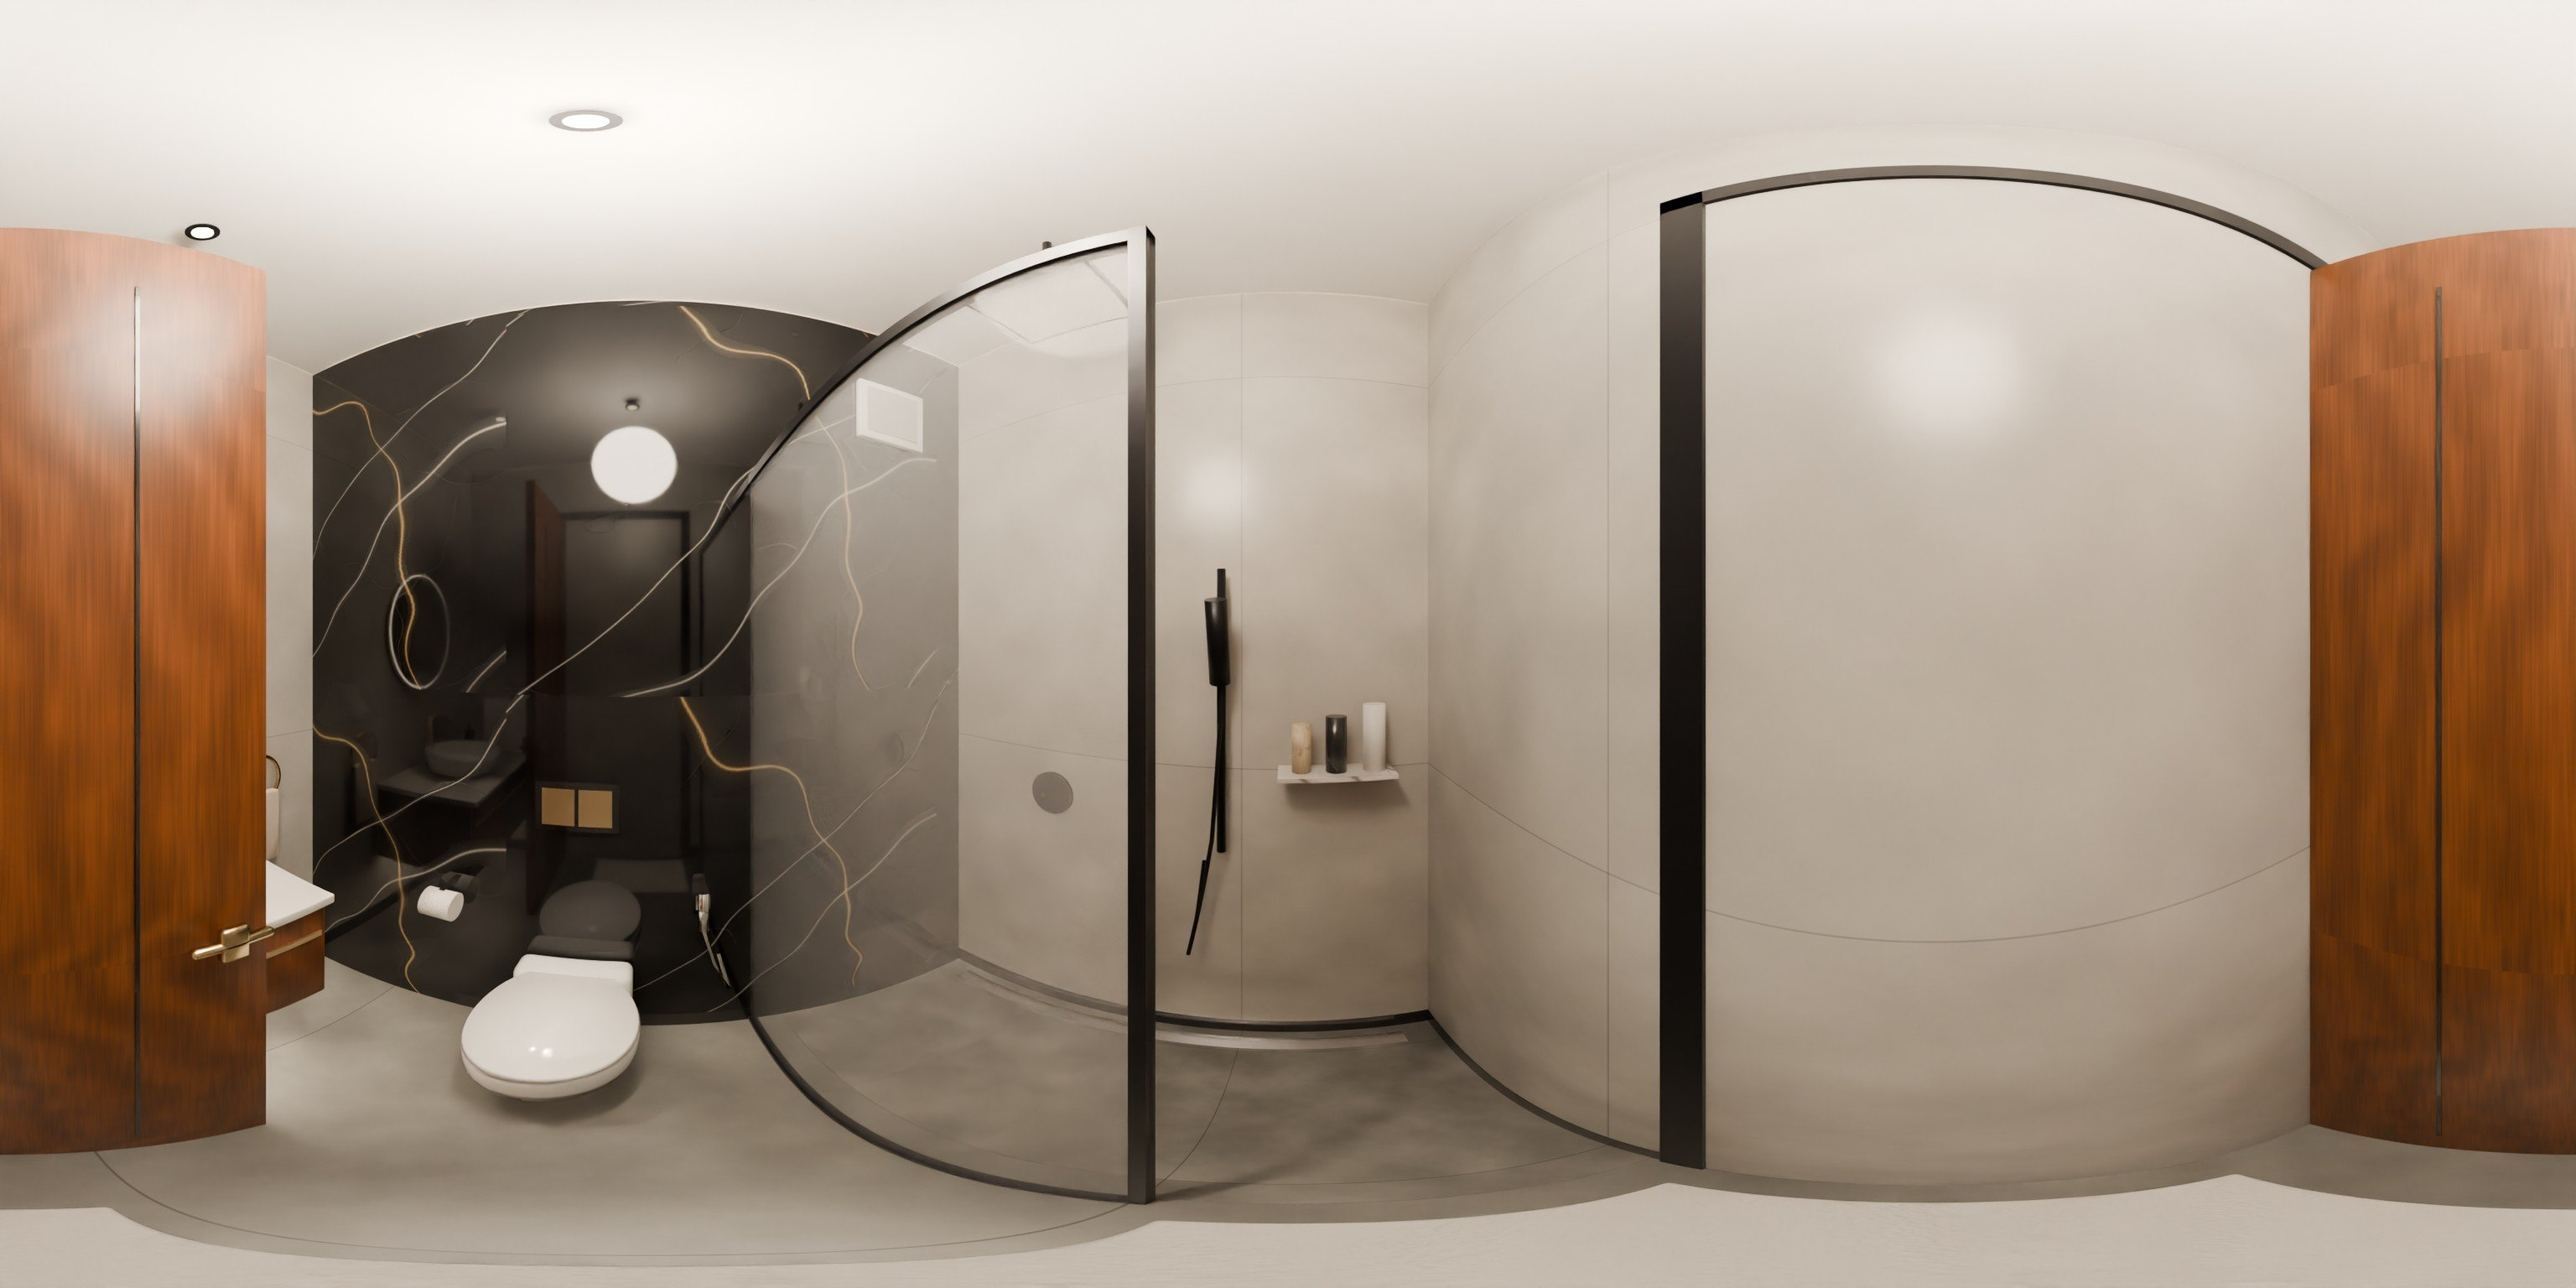
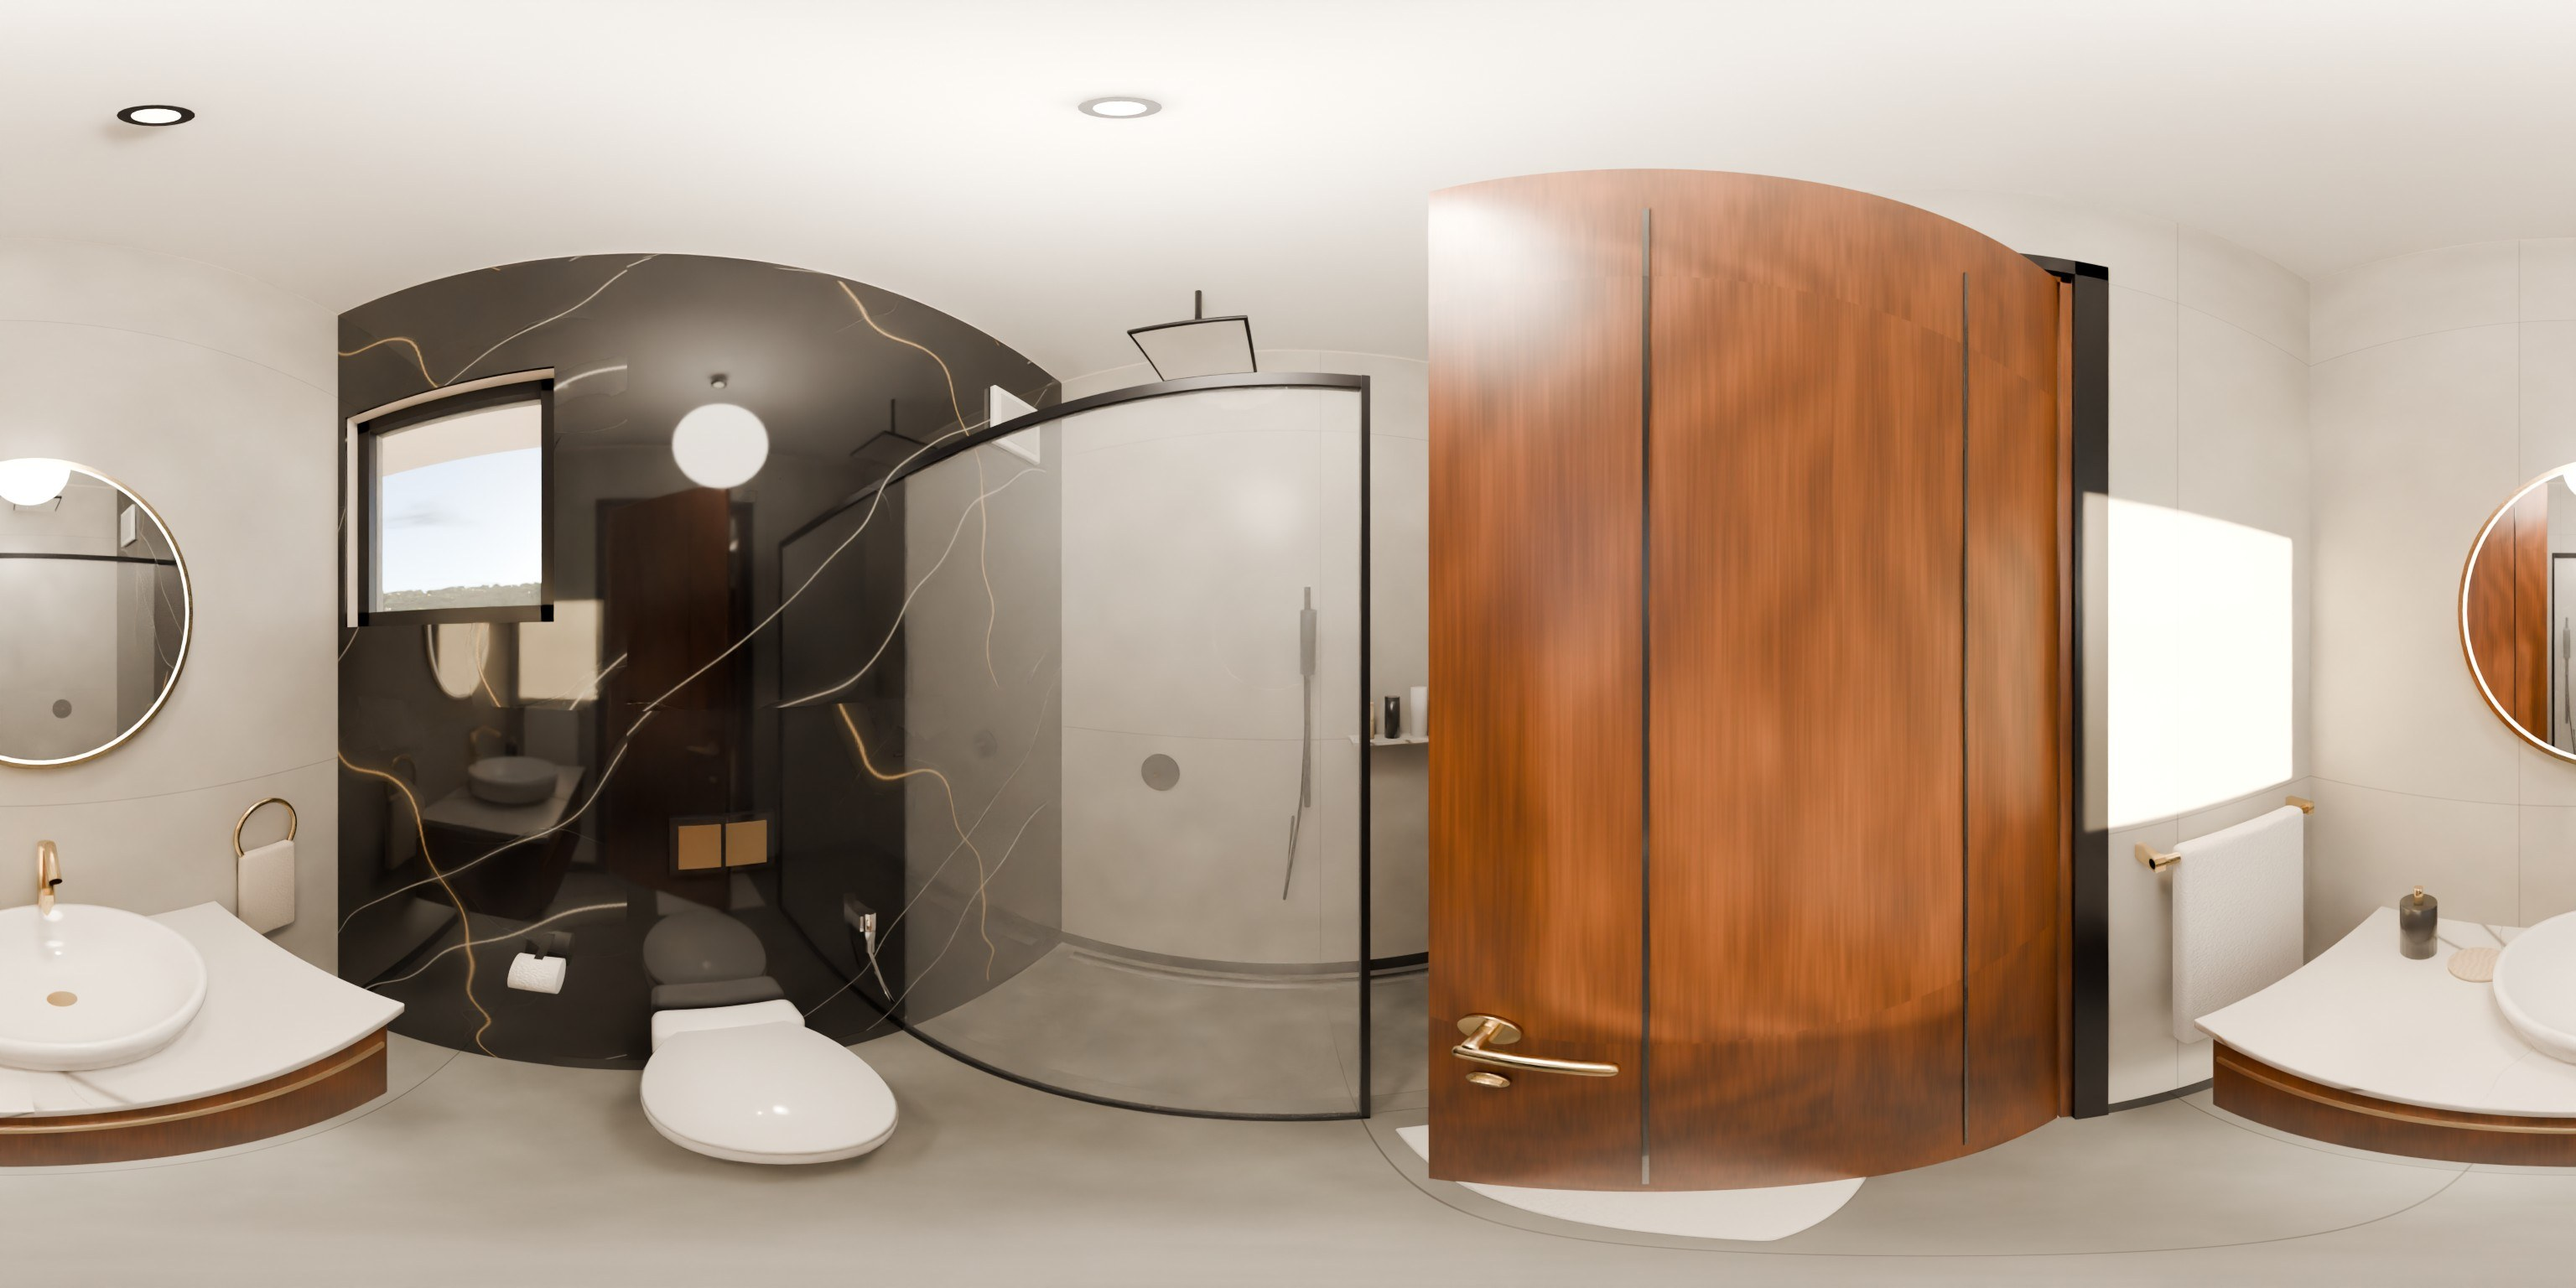
Proper bathroom doors; Bathrooms 2 and 3 in the 360 tour
- Bathroom wall tiling no longer runs across the doorways and windows
- Bathroom doors stand ajar with brass levers on both faces and a
  privacy turn, so the door reads from the bedroom side
- New 360 stops for Bathroom 2 (from Bedroom 2) and Bathroom 3 (from
  the dining area); master bath viewpoint moved clear of the door
- index.html#<room> now opens straight into that room

Claude-Session: https://claude.ai/code/session_01AxkwcX849drJFCPWu8TBcP

diff --git a/index.html b/index.html
@@ -195,8 +195,12 @@ const NODES = {
              text: "A charcoal channel-tufted headboard wall with an ivory gallery panel above, a bouclé bench and linen drapes that soften the light from the balcony." },
   master:  { px: 300, py: 470, name: "Master Bedroom", size: "13.45 x 11.48 ft", yaw: 170,
              text: "Herringbone oak underfoot and a full-height velvet channel headboard. Bronze-glass wardrobes glow from within, and a cognac velvet reading chair sits by the private balcony." },
-  mbath:   { px: 282, py: 258, name: "Master Bath", size: "7.87 x 4.92 ft", yaw: 105,
+  mbath:   { px: 255, py: 240, name: "Master Bath", size: "7.87 x 4.92 ft", yaw: 105,
              text: "A Nero Marquina feature wall, a wall-hung WC, a floating walnut vanity with a vessel basin, and a walk-in rain shower behind clear glass." },
+  bath2:   { px: 1010, py: 300, name: "Bathroom 2", size: "4.92 x 8.86 ft", yaw: 150,
+             text: "Attached to Bedroom 2: a walk-in rain shower behind clear glass, a wall-hung WC and a floating walnut vanity with a vessel basin." },
+  bath3:   { px: 395, py: 640, name: "Bathroom 3", size: "4.92 x 7.87 ft", yaw: 215,
+             text: "The common bathroom off the hall: a vessel basin on a walnut vanity, a wall-hung WC and a rain shower behind glass." },
   balcony: { px: 690, py: 110, name: "Balcony", size: "Full-length façade balcony", yaw: 0,
              text: "One balcony runs the full length of the façade, connecting the master suite, Bedroom 3, the living room and Bedroom 2. A sit-out with morning coffee looks across the compound to the Turahalli forest." }
 };
@@ -206,15 +210,17 @@ const LINKS = {
   entrance: [["foyer", 1150, 516, 0.48]],
   foyer:   [["entrance", 1150, 516], ["living", 900, 470], ["dining", 760, 560], ["kitchen", 1000, 600], ["br2", 1052, 420]],
   living:  [["foyer", 1000, 510], ["dining", 740, 560], ["balcony", 782, 172], ["br3", 602, 472]],
-  dining:  [["living", 790, 430], ["kitchen", 935, 655], ["foyer", 1020, 515], ["master", 372, 525], ["br3", 602, 472]],
+  dining:  [["living", 790, 430], ["kitchen", 935, 655], ["foyer", 1020, 515], ["master", 372, 525], ["br3", 602, 472], ["bath3", 408, 560]],
   kitchen: [["dining", 900, 650], ["foyer", 1050, 540]],
-  br2:     [["foyer", 1052, 420], ["balcony", 1185, 168]],
+  br2:     [["foyer", 1052, 420], ["balcony", 1185, 168], ["bath2", 1052, 347]],
   br3:     [["dining", 602, 470], ["balcony", 511, 168]],
   master:  [["dining", 372, 525], ["mbath", 269, 292], ["balcony", 125, 290]],
   mbath:   [["master", 269, 300]],
+  bath2:   [["br2", 1052, 347]],
+  bath3:   [["dining", 408, 560]],
   balcony: [["living", 782, 168], ["br3", 511, 168], ["br2", 1185, 168], ["master", 125, 168]]
 };
-const ORDER = ["entrance", "foyer", "living", "balcony", "dining", "kitchen", "br3", "br2", "master", "mbath"];
+const ORDER = ["entrance", "foyer", "living", "balcony", "dining", "kitchen", "bath3", "br3", "br2", "bath2", "master", "mbath"];
 const EYE = 1.55;
 
 // ---------------------------------------------------------------- renderer + panorama spheres
@@ -240,7 +246,7 @@ function tex(url) {
   }, undefined, rej));
   return cache[url];
 }
-const V = "?v=5";
+const V = "?v=6";
 const small = id => `pano/${id}_s.jpg${V}`, big = id => `pano/${id}.jpg${V}`;
 
 function resize() { const w = innerWidth, h = innerHeight; renderer.setSize(w, h, false); camera.aspect = w / h; camera.fov = w < h ? 85 : 72; camera.updateProjectionMatrix(); fovBase = camera.fov; }
@@ -368,7 +374,8 @@ const slides = [...document.querySelectorAll(".slide")]; let si = 0;
 const slideTimer = setInterval(() => { slides[si].classList.remove("on"); si = (si + 1) % slides.length; slides[si].classList.add("on"); }, 5200);
 tex(small("entrance")).catch(() => {});
 document.getElementById("go").addEventListener("click", async () => {
-  await go("entrance");
+  const startAt = NODES[location.hash.slice(1)] ? location.hash.slice(1) : "entrance";   // index.html#br2 opens Bedroom 2
+  await go(startAt);
   document.getElementById("intro").classList.add("gone"); clearInterval(slideTimer);
   for (const id of ["top", "caption", "rooms", "hint"]) document.getElementById(id).hidden = false;
   if (innerWidth >= 1100) plan.hidden = false;

diff --git a/source/build_v2.py b/source/build_v2.py
@@ -143,7 +143,7 @@ def fill(name, o, horiz, px0, py0, px1, py1):
             fb(f"{name}_al{sg}", lo - aw, lo, 0, top + aw, trim, d0, d1)
             fb(f"{name}_ar{sg}", hi, hi + aw, 0, top + aw, trim, d0, d1)
             fb(f"{name}_ah{sg}", lo - aw, hi + aw, top, top + aw, trim, d0, d1)
-        # leaf open at 90 degrees, clear of the wall face
+        # leaf: open at 90 degrees clear of the wall face, or ajar (open=<deg>) so its face and handle read
         width = hi - lo - 0.05
         hinge_lo = (o.get("hinge", "a") == "a") == (A <= B)
         hinge = lo + 0.025 if hinge_lo else hi - 0.025
@@ -153,24 +153,40 @@ def fill(name, o, horiz, px0, py0, px1, py1):
             out = Vector((0, -side, 0)); hp = Vector((hinge, c, 0)); al = Vector((along, 0, 0))
         else:
             out = Vector((side, 0, 0)); hp = Vector((c, hinge, 0)); al = Vector((0, along, 0))
-        face = hp + out * (th / 2 + 0.012)
         lt = 0.045
-        cen = face + out * (width / 2) + al * (lt / 2 + 0.005)
-        ang = math.degrees(math.atan2(out.y, out.x)) - 90
+        th_open = math.radians(o.get("open", 90))
+        dirv = al * math.cos(th_open) + out * math.sin(th_open)          # from the hinge across the leaf
+        nrm = out * math.cos(th_open) - al * math.sin(th_open)           # leaf normal, swing side
+        if o.get("open", 90) >= 89:
+            pivot = hp + out * (th / 2 + 0.012) + al * (lt + 0.005)
+        else:
+            pivot = hp + out * (th / 2)
+        cen = pivot + dirv * (width / 2) - nrm * (lt / 2)
+        ang = math.degrees(math.atan2(dirv.y, dirv.x)) - 90
         boxc(f"{name}_leaf", cen.x, cen.y, 0.008, lt, width, top - 0.02, leafm, "Openings", rot=ang)
         # vertical grooves (proud, so they never coincide with the leaf faces)
         for g in (-0.18, 0.18):
-            p = cen + out * g
+            p = cen + dirv * g
             for sgn in (-1, 1):
-                q = p + al * sgn * (lt / 2 + 0.0015)
+                q = p + nrm * sgn * (lt / 2 + 0.0015)
                 boxc(f"{name}_gr{g}{sgn}", q.x, q.y, 0.15, 0.003, 0.006, top - 0.35, "lacquer_black", "Openings", rot=ang)
-        # brass lever handles on both faces
-        hpnt = face + out * (width - 0.08)
+        # brass lever sets on both faces: round rose, neck and a lever that points back toward the hinge
+        hc = cen + dirv * (width / 2 - 0.07)
         for sgn in (-1, 1):
-            q = hpnt + al * (lt / 2 + 0.005 + 0.03) * sgn + al * (lt / 2 + 0.005) * 0
-            q = (face + out * (width - 0.08)) + al * ((lt / 2 + 0.005) + sgn * (lt / 2 + 0.03))
-            boxc(f"{name}_hd{sgn}", q.x, q.y, 1.02, 0.02, 0.14, 0.02, "brass", "Openings", rot=ang, bevel=0.008)
-            boxc(f"{name}_ro{sgn}", q.x, q.y, 0.99, 0.02, 0.05, 0.08, "brass", "Openings", rot=ang, bevel=0.008)
+            f0 = hc + nrm * sgn * (lt / 2)
+            r_ = f0
+            cyl(f"{name}_rose{sgn}", r_.x, r_.y, 1.02, 0.032, 0.01, "brass", "Openings", 32,
+                rot=(90, 0, math.degrees(math.atan2(nrm.y, nrm.x)) + 90 + (180 if sgn < 0 else 0)))
+            nk = f0 + nrm * sgn * 0.03
+            boxc(f"{name}_neck{sgn}", nk.x, nk.y, 1.005, 0.05, 0.018, 0.03, "brass", "Openings", rot=ang, bevel=0.006)
+            lv = f0 + nrm * sgn * 0.052 - dirv * 0.055
+            boxc(f"{name}_lever{sgn}", lv.x, lv.y, 1.006, 0.02, 0.14, 0.024, "brass", "Openings", rot=ang, bevel=0.009)
+            if o.get("privacy"):        # bathroom: privacy turn inside, release slot outside
+                pr = f0 + nrm * sgn * 0.004
+                cyl(f"{name}_prv{sgn}", pr.x, pr.y, 0.86, 0.022, 0.008, "brass", "Openings", 24,
+                    rot=(90, 0, math.degrees(math.atan2(nrm.y, nrm.x)) + 90 + (180 if sgn < 0 else 0)))
+                tk = f0 + nrm * sgn * 0.014
+                boxc(f"{name}_turn{sgn}", tk.x, tk.y, 0.858, 0.012, 0.006 if sgn < 0 else 0.03, 0.03 if sgn < 0 else 0.006, "brass", "Openings", rot=ang, bevel=0.002)
 
 def D(a, b, hinge="a", swing=1, **kw):
     d = dict(a=a, b=b, bot=0, top=DOOR_H, kind="door", hinge=hinge, swing=swing); d.update(kw); return d
@@ -179,11 +195,11 @@ def SL(a, b): return dict(a=a, b=b, bot=0, top=SLIDE_H, kind="slider")
 
 wall("MasterWest", 45, 160, 55, 752, [W(290, 368, 0.6, 2.4)])
 wall("BalconyT1", 180, 160, 192, 292)
-wall("MasterNorth", 55, 288, 365, 297, [SL(70, 180), D(238, 300, hinge="a", swing=-1)])
+wall("MasterNorth", 55, 288, 365, 297, [SL(70, 180), D(238, 300, hinge="a", swing=-1, open=40, privacy=True)])
 wall("T1North", 180, 160, 438, 172, [W(195, 240, 1.6, 2.3)])
 wall("MasterEast", 365, 172, 378, 557, [D(492, 557, hinge="b", swing=-1)])
 wall("MasterSouth", 45, 597, 313, 605)
-wall("T3North", 313, 557, 450, 564, [D(378, 437, hinge="b", swing=1)])
+wall("T3North", 313, 557, 450, 564, [D(378, 437, hinge="b", swing=1, open=40, privacy=True)])
 wall("T3West", 313, 564, 325, 745, [W(687, 740, 1.6, 2.3)], skirting=False)
 wall("T3East", 437, 564, 450, 752)
 wall("BR3South", 378, 462, 635, 470, [D(572, 632, hinge="b", swing=-1)])
@@ -192,7 +208,7 @@ wall("BR3Living", 635, 172, 649, 470)
 wall("T2West", 922, 172, 935, 385)
 wall("T2South", 935, 378, 1047, 385)
 wall("T2North", 935, 160, 1047, 172, [W(960, 1010, 1.7, 2.3)])
-wall("BR2West", 1047, 160, 1057, 452, [D(318, 376, hinge="a", swing=-1), D(390, 450, hinge="b", swing=1)])
+wall("BR2West", 1047, 160, 1057, 452, [D(318, 376, hinge="a", swing=-1, open=40, privacy=True), D(390, 450, hinge="b", swing=1)])
 wall("BR2North", 1057, 160, 1325, 172, [SL(1117, 1253)])
 wall("BR2East", 1313, 172, 1325, 452)
 wall("BR2South", 1047, 452, 1560, 462)
@@ -618,18 +634,35 @@ for (px, py) in [(110, 350), (110, 520), (300, 350), (300, 520), (210, 560)]:
     spot(px, py)
 
 # ============================================================== BATHROOMS
-def bathroom(n, px0, py0, px1, py1, wc_side, van_side, accent="marble_nero"):
+def bathroom(n, px0, py0, px1, py1, wc_side, van_side, accent="marble_nero", holes=None):
+    """1 cm stone / marble finish on the four walls, cut around the door and window openings.
+    holes: {"N"|"S"|"E"|"W": [(px_a, px_b, bottom, top), ...]} in plan px along that wall."""
     x0, x1, y_n, y_s = X(px0), X(px1), Y(py0), Y(py1)
-    t = 0.01
-    box(n + "_wN", x0, y_n - t, 0, x1, y_n, H - 0.02, accent, "Decor")
-    box(n + "_wS", x0, y_s, 0, x1, y_s + t, H - 0.02, "stone_light", "Decor")
-    box(n + "_wW", x0, y_s, 0, x0 + t, y_n, H - 0.02, "stone_light", "Decor")
-    box(n + "_wE", x1 - t, y_s, 0, x1, y_n, H - 0.02, "stone_light", "Decor")
+    t = 0.01; holes = holes or {}
+    def run(side, m):
+        horiz = side in ("N", "S")
+        a0, a1 = (px0, px1) if horiz else (py0, py1)
+        def piece(k, a, b, z0, z1):
+            if b - a < 0.5 or z1 - z0 < 0.005: return
+            if horiz:
+                yy = (y_n - t, y_n) if side == "N" else (y_s, y_s + t)
+                box(f"{n}_w{side}{k}", X(a), yy[0], z0, X(b), yy[1], z1, m, "Decor")
+            else:
+                xx = (x0, x0 + t) if side == "W" else (x1 - t, x1)
+                box(f"{n}_w{side}{k}", xx[0], Y(b), z0, xx[1], Y(a), z1, m, "Decor")
+        cur, k = a0, 0
+        for (a, b, bot, top) in sorted(holes.get(side, [])):
+            piece(k, cur, a, 0, H - 0.02); k += 1
+            piece(k, a, b, 0, bot); k += 1
+            piece(k, a, b, top, H - 0.02); k += 1
+            cur = b
+        piece(k, cur, a1, 0, H - 0.02)
+    run("N", accent); run("S", "stone_light"); run("W", "stone_light"); run("E", "stone_light")
     ld = bpy.data.lights.new(n + "_fill", "POINT"); ld.energy = 45; ld.color = (1.0, 0.86, 0.7); ld.shadow_soft_size = 0.2
     lo_ = bpy.data.objects.new(n + "_fill", ld); lo_.location = ((x0 + x1) / 2, (y_n + y_s) / 2, H - 0.4); coll("Lights").objects.link(lo_)
-bathroom("T1", 192, 172, 365, 288, "N", "W")
-bathroom("T2", 935, 172, 1047, 378, "W", "S")
-bathroom("T3", 325, 564, 437, 745, "E", "S")
+bathroom("T1", 192, 172, 365, 288, "N", "W", holes={"N": [(195, 240, 1.6, 2.3)], "S": [(238, 300, 0, DOOR_H)]})
+bathroom("T2", 935, 172, 1047, 378, "W", "S", holes={"N": [(960, 1010, 1.7, 2.3)], "E": [(318, 376, 0, DOOR_H)]})
+bathroom("T3", 325, 564, 437, 745, "E", "S", holes={"N": [(378, 437, 0, DOOR_H)], "W": [(687, 740, 1.6, 2.3)]})
 for (px, py) in [(278, 230), (990, 300), (380, 690), (990, 210), (230, 230), (380, 610)]:
     spot(px, py, H - 0.04, 30)
 

diff --git a/source/render_v2.py b/source/render_v2.py
@@ -19,6 +19,9 @@ VIEWS = {
     "hero_master": ((330, 545), 1.45, (60, 410), 1.1),
     "hero_kitchen": ((1000, 738), 1.55, (1110, 590), 1.2),
     "hero_balcony": ((660, 152), 1.45, (800, 70), 0.85),
+    "v_d1": ((300, 470), 1.55, (265, 290), 1.1),
+    "v_d2": ((1150, 345), 1.55, (1040, 345), 1.1),
+    "v_d3": ((405, 490), 1.55, (408, 620), 1.0),
     "v_cup": ((778, 128), 0.62, (776, 60), 0.75),
     "v_living": ((1065, 515), 1.5, (700, 300), 1.2),
     "v_living2": ((700, 440), 1.45, (900, 230), 1.1),
